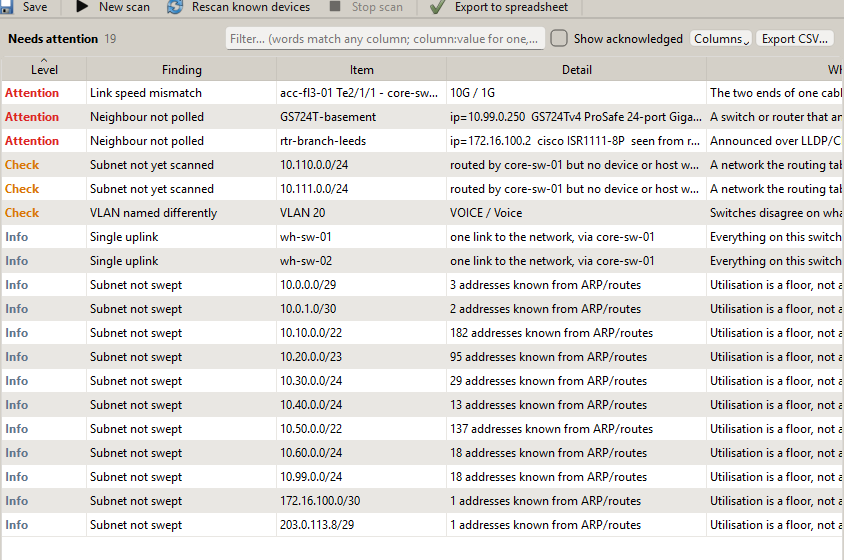
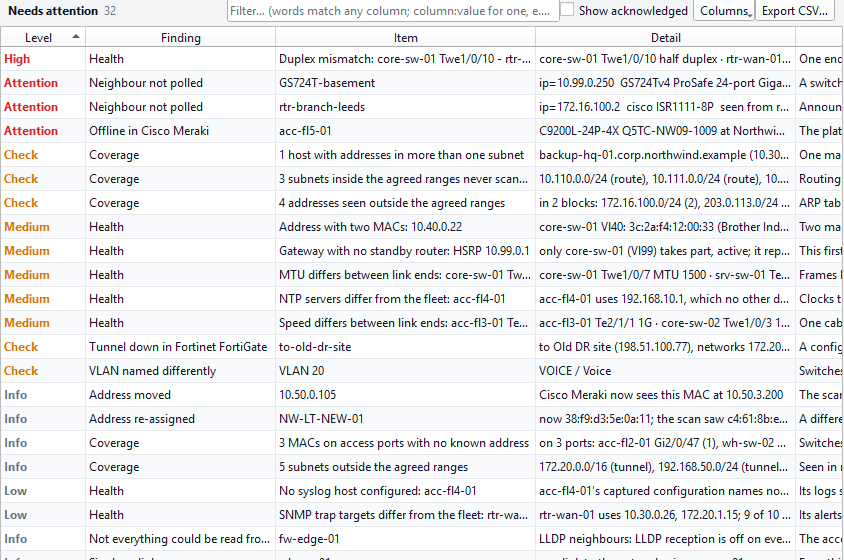
SubnetSleuth 0.23: hypervisors, clouds and clusters; coverage; day-one health checks
New sections on reading the hypervisors, clouds and Kubernetes clusters behind a network and on
the Coverage page, the health checks under Needs attention, the whole-network trial, about 2,600
tests and how a release is built and tested. New pictures from the 0.23.0 self-test on Windows.

diff --git a/src/content/projects/subnetsleuth/index.md b/src/content/projects/subnetsleuth/index.md
@@ -2,7 +2,7 @@
 title: 'SubnetSleuth: inventory and map a network you inherit'
 world: work
 date: 2026-10-01
-summary: "A Windows desktop app and command-line tool for taking stock of a network you are now responsible for but did not build. It reads the network's own devices over SNMP, read-only, and works out what is there and how it is wired: devices, links, subnets, VLANs and every host. It pulls in what the firewalls, management platforms, Active Directory and vCenter already know, from one place that holds every connection and credential, draws the VPN tunnels, and lets you ask Claude, or another AI model, what it all means."
+summary: "A Windows desktop app and command-line tool for taking stock of a network you are now responsible for but did not build. It reads the network's own devices over SNMP, read-only, and works out what is there and how it is wired: devices, links, subnets, VLANs and every host. It pulls in what the firewalls, management platforms, Active Directory, hypervisors, clouds and Kubernetes clusters already know, from one place that holds every connection and credential, shows what no scan has covered yet, turns it all into day-one health checks, and lets you ask Claude, or another AI model, what it all means."
 featured: false
 cover: ./cover.png
 coverAlt: "SubnetSleuth's physical topology map of a sample campus: an edge firewall and WAN router above a core switch pair, with floor, server and warehouse switches below and access points under them"
@@ -14,7 +14,7 @@ draft: false
 
 Taking over a network is mostly archaeology. An acquisition, a handover from a departing engineer, or a new job: the network comes with a spreadsheet that was last right two years ago and a diagram of how somebody meant it to be. SubnetSleuth is for that moment. You give it the address ranges you are responsible for and a read-only SNMP credential, and it reads the network's own devices to work out what is actually there and how it connects.
 
-It is a **Windows desktop app** and a **command-line tool** (Windows and Linux) that share one project file. It is available at [subnetsleuth.com](https://subnetsleuth.com), with the installer, a portable zip and the command-line builds on its [download page](https://subnetsleuth.com/download) and a 14-day free trial.
+It is a **Windows desktop app** and a **command-line tool** (Windows and Linux) that share one project file. It is available at [subnetsleuth.com](https://subnetsleuth.com), with the installer, a portable zip and the command-line builds on its [download page](https://subnetsleuth.com/download) and a 14-day free trial that covers one whole network.
 
 <video controls preload="metadata" playsinline poster="/media/subnetsleuth-demo-poster.jpg" aria-label="An 80-second tour of SubnetSleuth: a live scan, then the map, device, host, subnet, path and deep-scan views">
   <source src="/media/subnetsleuth-demo/index.m3u8" type="application/vnd.apple.mpegurl" />
@@ -38,7 +38,7 @@ From there it works in stages:
 
 While it runs, the Activity panel's **Now:** line names exactly what is in flight: the /24 blocks being swept, the batch being port-scanned and Nmap's current stage, the devices being polled. On a large network that line is the difference between "it's working" and "is it stuck?".
 
-If the SNMP credentials came with the network, you add them. If they did not — common on a network nobody documented — SubnetSleuth can also try the handful of well-known factory-default community strings, read-only, after anything you did provide. Any device that still answers one is listed under *Needs attention* so you can change it.
+If the SNMP credentials came with the network, you add them. If they did not — common on a network nobody documented — SubnetSleuth can also try the handful of well-known factory-default community strings, read-only, after anything you did provide. Any device that still answers one is flagged on the *Compliance* page so you can change it.
 
 Everything it sends is read-only (SNMP GET and GETBULK, never SET), and every step checks the same scope before contacting an address, so nothing outside your ranges is touched, whichever step found it.
 
@@ -82,7 +82,7 @@ Secrets never go into a project file. On Windows they are encrypted for the Wind
 
 A scan from the outside only sees what answers. The people who ran the network left a lot more behind in their own tools: the firewall knows which tunnels go where, the cloud dashboard knows which switch port and VLAN every laptop is on and who signs in to it, the firewall manager knows the serial and firmware of boxes that are switched off today, and Active Directory knows every machine that has joined the domain and what each site's subnets are called.
 
-SubnetSleuth reads that, read-only, from **Cisco Meraki**, **Cisco Security Cloud Control**, **Cisco Secure Firewall Management Center**, **FortiGate** and **FortiManager**, **Palo Alto** firewalls and **Panorama**, **Check Point**, **SonicWall** and **Sophos**, from **Active Directory**, Windows DNS and DHCP servers and any DNS server that allows a zone transfer, and from **VMware vCenter**, which knows every virtual machine and the host it runs on. A DHCP server's lease export goes through the same path. Each connector sends only the requests on its own read-only list, checked before anything leaves the machine, and sends credentials only to the platform's own address, never to a redirect elsewhere.
+SubnetSleuth reads that, read-only, from **Cisco Meraki**, **Cisco Security Cloud Control**, **Cisco Secure Firewall Management Center**, **FortiGate** and **FortiManager**, **Palo Alto** firewalls and **Panorama**, **Check Point**, **SonicWall** and **Sophos**, and from **Active Directory**, Windows DNS and DHCP servers and any DNS server that allows a zone transfer. A DHCP server's lease export goes through the same path. Each connector sends only the requests on its own read-only list, checked before anything leaves the machine, and sends credentials only to the platform's own address, never to a redirect elsewhere.
 
 What comes back is lined up with what the scan found. A device the platform manages is matched to the polled device by serial number, then MAC, address and name, and a serial that disagrees vetoes the weaker clues. Clients and DHCP leases follow their MAC, so a laptop that has taken a new address shows as **moved** instead of becoming a second laptop, and an address that now belongs to a different machine is flagged as **re-assigned**. That is the trap of scanning a DHCP network repeatedly: done by IP address alone, it counts the same machine twice and attaches it to the wrong record. A **Sources** page lists every record and where it landed: on a polled device, on a host, added to the map, or kept off it because its only address was public.
 
@@ -93,6 +93,20 @@ What comes back is lined up with what the scan found. A device the platform mana
 **VPN tunnels go on the map.** Every site-to-site tunnel a platform reports is drawn from the firewall that owns it to the far end, green when it is up and red when it is down. The networks behind the far end hang off it on the logical view. When the far end is a box the project already knows, such as the other side of a Meraki AutoVPN pair or a branch firewall that a firewall manager reports, the tunnel joins the two. Otherwise the remote site gets its own node.
 
 ![The logical map: the edge firewall with three site-to-site tunnels to a Leeds branch, an Azure hub and an old disaster-recovery site — the last drawn in red because it is down — with the networks behind each tunnel hanging off its far end](./tunnels.png)
+
+## Behind the network: hypervisors, clouds and clusters
+
+Half of a modern network is virtual: the servers are virtual machines, a site's "core" is a pair of hypervisors with distributed switches, and the newest systems live in a cloud account reached over a VPN. SubnetSleuth reads those too, read-only: **VMware vCenter and ESXi**, **VMware NSX**, **Microsoft Hyper-V** (failover clusters included) and **System Center VMM**, **Proxmox VE**, **Nutanix**, **XenServer and XCP-ng** and **Xen Orchestra**, **oVirt, RHV and OLVM**, KVM hosts over libvirt, **OpenStack**, **AWS** (a whole AWS Organization at once), **Azure** (every subscription the sign-in can read, Azure Arc servers included), **Google Cloud**, **Oracle Cloud** and **Kubernetes**.
+
+Every virtual machine hangs off its host on the map, labelled with its port group and VLAN, and merges with what the scan found at the same address, so a server that answered SNMP and the VM record behind it are one machine. A hypervisor whose network cards hear CDP or LLDP is drawn cabled to its switch port. Cloud networks keep their own address space: two VPCs that both use 10.0.0.0/16, or a VNet that reuses an office range, are never merged into one subnet. A cloud network that overlaps the office stays off the map until you attach it on the **Cloud & virtual** page, and each source documents the least access to ask for.
+
+![The Cloud & virtual page of the sample campus: the virtual machines of its vCenter, each with its address and the host it runs on, and the port groups with the subnet each carries](./virtual.png)
+
+## What hasn't been covered yet
+
+The question at the end of a first scan is "what have we not looked at?" The **Coverage** page answers it from what the project already holds, without sending anything more: subnets that routing tables, DHCP scopes, firewalls, tunnels, clouds and reverse DNS zones reveal but no scan covered; machines with addresses in more than one subnet; addresses seen outside the agreed ranges (listed, never touched); and unknown MAC addresses learned on access ports that nothing else accounts for. Inside the agreed ranges they are the next thing to scan; outside them they are what to ask about.
+
+![The Coverage page: subnets no scan covered yet with where each was seen, machines that bridge subnets, and addresses seen outside the agreed ranges](./coverage.png)
 
 ## Asking Claude about it
 
@@ -120,22 +134,21 @@ Right-click any device or host, or type an address, and **Deep scan with Nmap** 
 
 ## Keeping it honest and current
 
-**Needs attention** collects the things worth acting on: neighbours that were seen but couldn't be polled, devices that answer SNMP but hide their topology (no LLDP/CDP, MAC table or routes — usually a restricted SNMP view), links whose ends disagree on speed or duplex, VLANs named differently on different switches, subnets whose router was never reached, overlapping subnets, single uplinks. A compliance page checks device configurations against common hardening standards and flags hardware that is past, or nearing, the end of vendor support.
+**Needs attention** collects the things worth acting on, starting with the **day-one health checks**: link ends that disagree on speed, duplex, MTU, access or native VLAN, the VLANs a trunk allows or a bundle's members; gateways with no standby router (HSRP, VRRP) and spanning-tree roots in the wrong place; IP address conflicts, overlapping subnets and mismatched masks; devices whose NTP, DNS, syslog or AAA servers differ from the rest of the fleet; ports in use in VLAN 1, VLANs nothing uses and trunks that went down. Each comes with its evidence (both ends of the link, the values, which devices said so), nothing extra is contacted to work it out, and a check whose data was not collected stays silent rather than claiming all is well. Alongside them are neighbours that were seen but couldn't be polled, devices that answer SNMP but hide their topology (usually a restricted SNMP view), VLANs named differently on different switches, subnets whose router was never reached, and single uplinks. A compliance page checks device configurations against common hardening standards and flags hardware that is past, or nearing, the end of vendor support.
 
-![The Needs attention page: link speed mismatches, neighbours not polled, subnets not yet scanned, VLANs named inconsistently and single uplinks, each with a level, the item and a suggested action](./findings.png)
+![The Needs attention page: day-one health checks (a duplex mismatch, a gateway with no standby router, MTU, speed and NTP differences, an address with two MACs), coverage findings and neighbours not polled, each with a level, the item and the detail](./findings.png)
 
 Beyond SNMP, SubnetSleuth can:
 
 - capture running configurations over SSH and show what changed between captures;
 - inspect hosts over SSH or WinRM — with your credentials it reads the OS, hardware, installed software, services and live connections (which become a dependency map of who talks to which server), and on Windows the OS product type tells a server, a domain controller and a workstation apart;
-- read VMware vCenter;
 - import DHCP leases;
 - listen for syslog and SNMP traps while you are on site;
 - reconcile everything against the asset list you were handed.
 
 ![A core switch's configuration history: the diff between two captures, with a VLAN renamed from Voice to VOICE and an NTP server changed](./config-diff.png)
 
-Rescans re-poll what is already known and keep your notes, the map layout and the scan history. *Compare with another scan* shows what moved, appeared or disappeared since last time.
+Rescans re-poll what is already known and keep your notes, the map layout and the scan history. *Tools ▸ Compare with another project* shows what moved, appeared or disappeared since last time.
 
 ## Sharing it
 
@@ -154,4 +167,4 @@ subnetsleuth diff last-month.sleuth site.sleuth
 
 SubnetSleuth is written in Python: asyncio for the scanning, pysnmp for SNMP (v1, v2c and v3), Nmap when it is installed, and a PySide6 (Qt) desktop app. The scan engine has no Qt in it, so the app and the command line run the same code. Saved secrets are encrypted at rest with Windows DPAPI or the system keyring, and the log masks any secret that would otherwise be written to it.
 
-About 1,300 tests cover it, many of them against a simulated eleven-device campus and real SNMP agents bound to loopback addresses. Every connector is tested against responses recorded from its vendor's documented API, including tests that every request it can send is a read, that credentials never follow a redirect to another address, and that no secret ends up in a project file, an error message or the log. Every push builds the Windows installer on a Windows machine, starts the built app in a self-test mode that opens every page and every export, and screenshots it. Most of the pictures on this page are those screenshots.
+About 2,600 tests cover it, many of them against a simulated eleven-device campus and real SNMP agents bound to loopback addresses. Every connector is tested against responses recorded from its vendor's documented API, including tests that every request it can send is a read, that credentials never follow a redirect to another address, and that no secret ends up in a project file, an error message or the log. Every release is built on a build server of my own: the suite runs with Linux and Windows Python, the built app starts in a self-test mode that opens every page and every export and screenshots it, and the installer is installed, upgraded and removed before anything is published. Most of the pictures on this page are those screenshots.
